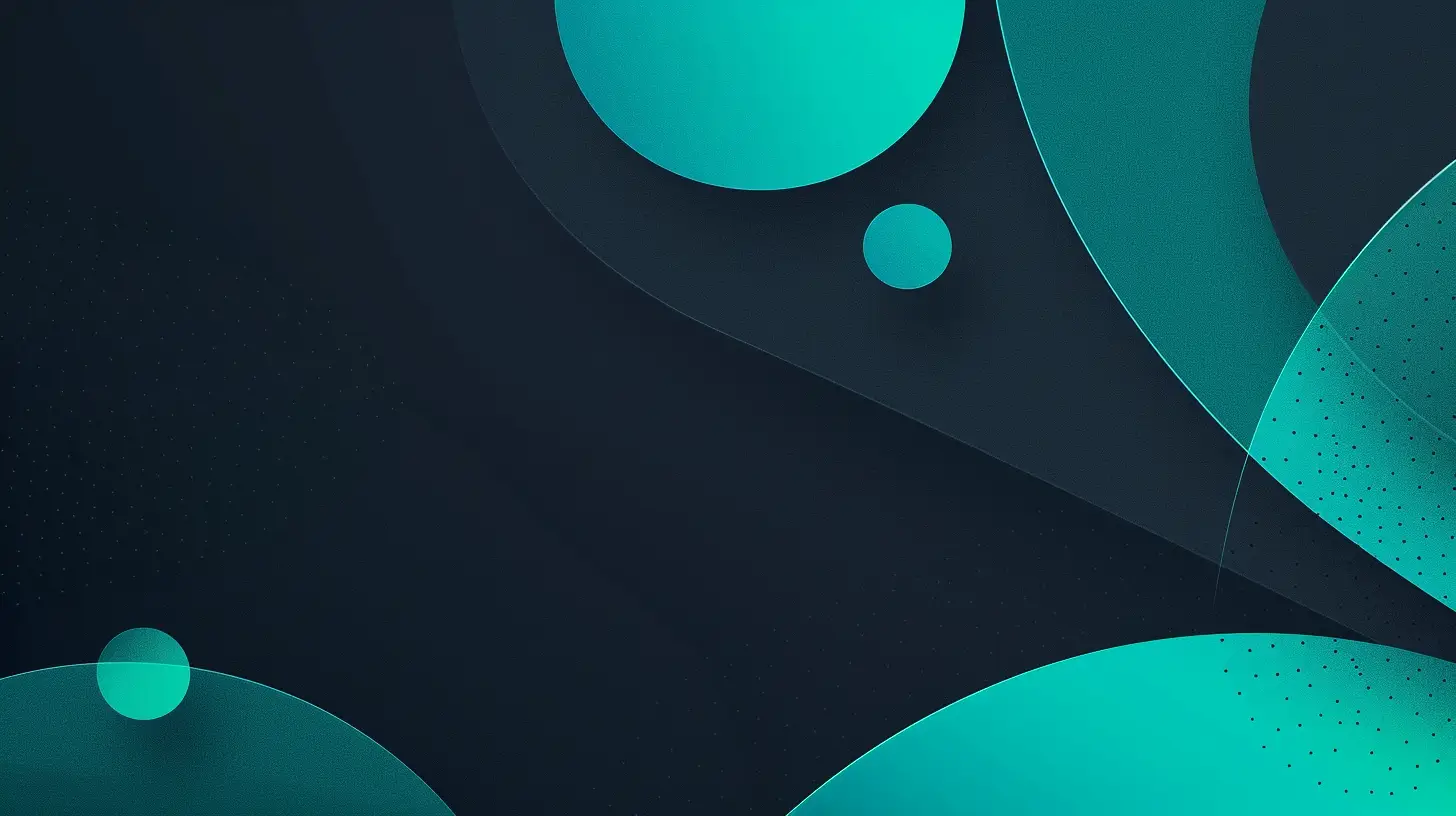
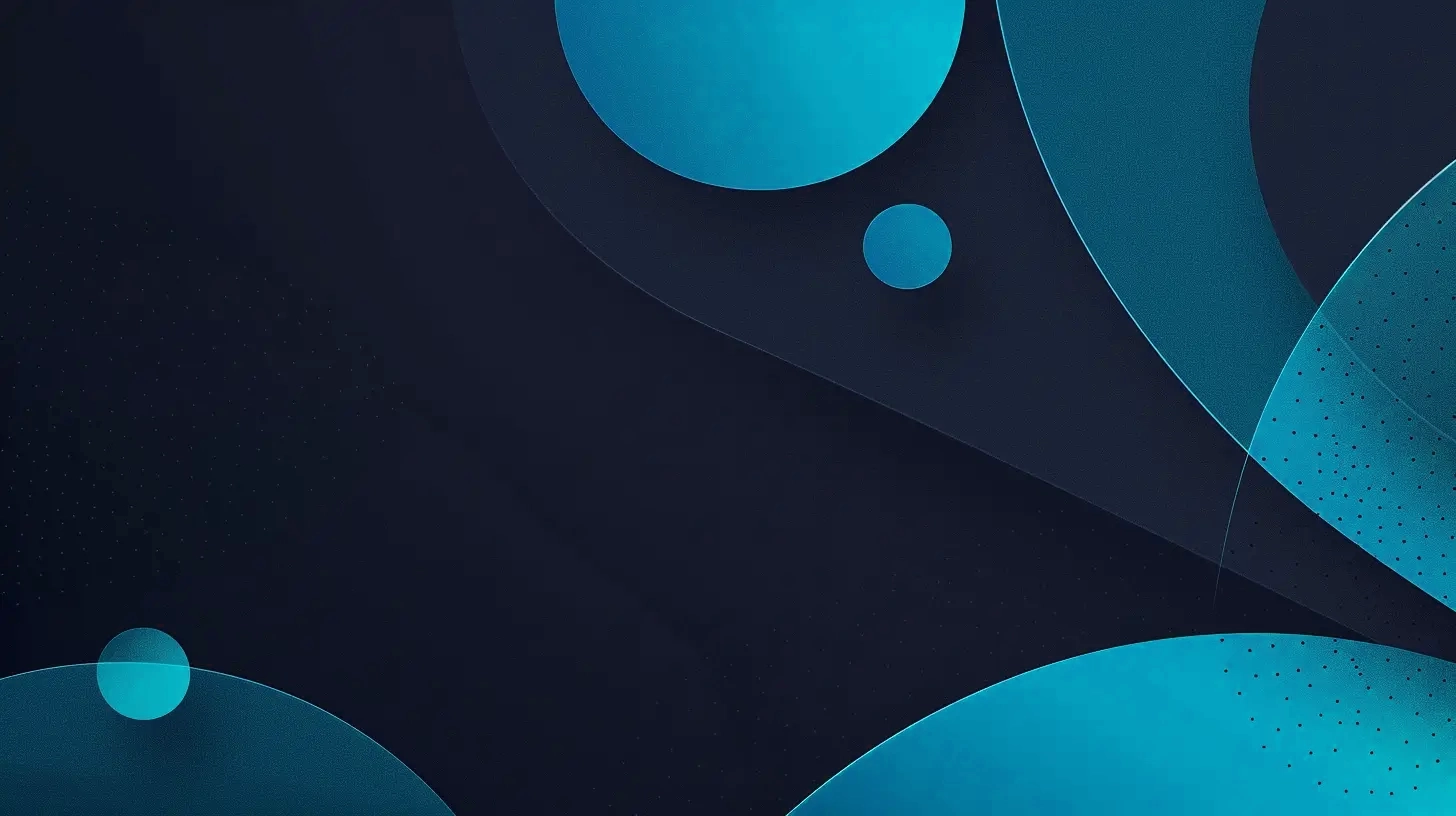
design refactor

diff --git a/app/page.tsx b/app/page.tsx
@@ -1,6 +1,8 @@
 import { CardBackground } from '@/components/graphics/card-background'
 import { Hero } from '@/components/hero'
 import { cn } from '@/lib/utils'
+import Image from 'next/image'
+import People from '@/public/people.webp'
 
 export default function Home() {
   return (
@@ -25,6 +27,46 @@ export default function Home() {
               title='Card number 3'
               description='Lorem ipsum dolor sit amet, consectetur adipiscing elit. Quisque vel diam ac nulla faucibus tempus. Curabitur gravida efficitur convallis. Proin facilisis hendrerit sapien id molestie. Fusce a consequat justo.'
             />
+          </div>
+        </section>
+        <section className='container pb-12'>
+          <div className='flex flex-col items-center gap-12 md:flex-row'>
+            <div className='prose prose-invert max-w-2xl shrink-0 lg:prose-2xl'>
+              <h2>Never letting friends skip out on the bill again</h2>
+              <p>
+                Lorem ipsum dolor sit amet, consectetur adipiscing elit. Aenean
+                euismod bibendum laoreet. Proin gravida dolor sit amet lacus
+                accumsan et viverra justo commodo.
+              </p>
+            </div>
+            <div className='flex gap-6'>
+              <div className='pt-48'>
+                <Image
+                  src={People}
+                  alt='People at cafe'
+                  className='aspect-[3/5] rounded-xl object-cover'
+                />
+              </div>
+              <div className='space-y-6'>
+                <Image
+                  src={People}
+                  alt='People at cafe'
+                  className='aspect-[3/5] rounded-xl object-cover'
+                />
+                <Image
+                  src={People}
+                  alt='People at cafe'
+                  className='aspect-[3/5] rounded-xl object-cover'
+                />
+              </div>
+              <div className='pt-24'>
+                <Image
+                  src={People}
+                  alt='People at cafe'
+                  className='aspect-[3/5] rounded-xl object-cover'
+                />
+              </div>
+            </div>
           </div>
         </section>
       </main>
@@ -54,7 +96,7 @@ const Card = ({
     )}
   >
     {highlight && (
-      <CardBackground className='absolute bottom-0 left-0 z-10 aspect-square h-auto w-full' />
+      <CardBackground className='absolute bottom-0 left-0 z-10 aspect-[3/5] h-auto w-full object-cover' />
     )}
     <div className='relative z-20 flex h-full flex-col gap-6 p-4 transition-all duration-150 group-hover:mb-0 group-hover:mt-0 md:-mt-16 md:mb-16 md:p-8'>
       {heading && (

diff --git a/components/hero.tsx b/components/hero.tsx
@@ -3,28 +3,35 @@ import { CreditCard } from './credit-card'
 import HeroBg from '@/public/hero-bg.webp'
 import Image from 'next/image'
 import { Button } from './ui/button'
+import { Phone } from './phone'
 
 export const Hero = () => {
   return (
-    <section className='gradient-bottom relative flex min-h-screen flex-col items-center justify-center gap-6 py-8 md:py-48'>
+    <section className='gradient-bottom relative flex min-h-screen flex-col items-center justify-center gap-6 py-8 md:gap-12 md:py-48'>
       <Image
         src={HeroBg}
         alt='Hero background'
         quality={100}
         placeholder='blur'
         priority
-        className='absolute left-0 top-0 -z-20 size-full object-cover mix-blend-overlay dark:opacity-60 dark:mix-blend-normal'
+        className='absolute left-0 top-0 -z-[5] size-full object-cover mix-blend-overlay dark:opacity-60 dark:mix-blend-normal'
       />
       <div className='container grid grid-cols-1 gap-8 md:grid-cols-2 md:gap-20'>
         <div className='prose prose-sm lg:prose-2xl'>
-          <h1 className='text-foreground'>Welcome to the future of banking</h1>
+          <h1 className='text-foreground'>
+            Welcome to{' '}
+            <span className='bg-primary bg-clip-text text-transparent'>
+              the future
+            </span>{' '}
+            of banking
+          </h1>
           <p className='text-foreground/80'>
             Lorem ipsum dolor sit amet, consectetur adipiscing elit. Aenean
             euismod bibendum laoreet. Proin gravida dolor sit amet lacus
             accumsan et viverra justo commodo.
           </p>
         </div>
-        <div className='flex flex-col items-end gap-3'>
+        <div className='flex flex-col items-end justify-end gap-3'>
           <CreditCard />
           <p className='text-center text-foreground/80'>
             Your card is safe with us

diff --git a/app/globals.css b/app/globals.css
@@ -79,15 +79,15 @@
     @apply grid size-full grid-cols-[1fr] grid-rows-[auto_1fr_auto] bg-background text-foreground;
   }
   .gradient-left {
-    @apply relative before:absolute before:inset-0 before:-z-10 before:h-full before:w-1/2 before:bg-gradient-to-r before:from-primary/15 before:to-transparent;
+    @apply relative before:absolute before:inset-0 before:-z-10 before:h-full before:w-1/2 before:bg-gradient-to-r before:from-primary/20 before:to-transparent;
   }
   .gradient-right {
-    @apply relative before:absolute before:right-0 before:top-0 before:-z-10 before:h-full before:w-1/2 before:bg-gradient-to-l before:from-primary/15 before:to-transparent;
+    @apply before:from-primary/02 relative before:absolute before:right-0 before:top-0 before:-z-10 before:h-full before:w-1/2 before:bg-gradient-to-l before:to-transparent;
   }
   .gradient-bottom {
-    @apply relative before:absolute before:bottom-0 before:left-0 before:-z-10 before:h-1/2 before:w-full before:bg-gradient-to-t before:from-primary/15 before:to-transparent;
+    @apply relative before:absolute before:bottom-0 before:left-0 before:-z-10 before:h-1/2 before:w-full before:bg-gradient-to-t before:from-primary/20 before:to-transparent;
   }
   .gradient-diagonal {
-    @apply relative before:absolute before:inset-0 before:-z-10 before:h-full before:w-full before:bg-gradient-to-tr before:from-primary/15 before:to-transparent;
+    @apply relative before:absolute before:inset-0 before:-z-10 before:h-full before:w-full before:bg-gradient-to-tr before:from-primary/20 before:to-transparent;
   }
 }

diff --git a/components/phone.tsx b/components/phone.tsx
@@ -1,0 +1,12 @@
+'use client'
+export const Phone = () => {
+  return (
+    <div className='aspect-[169/345] w-52 rounded-3xl border-8 border-black bg-black'>
+      <div className='h-full rounded-2xl bg-slate-500'>
+        <div className='mx-[20%] rounded-b-2xl bg-black p-1 px-3 pb-2'>
+          <div className='h-2 w-2 rounded-full bg-slate-800'></div>
+        </div>
+      </div>
+    </div>
+  )
+}
